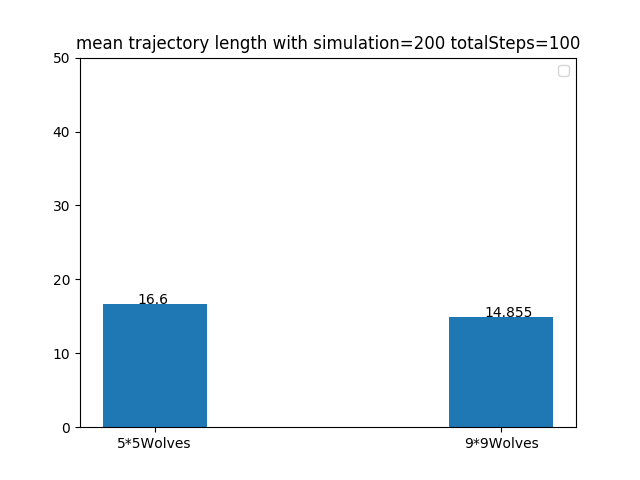
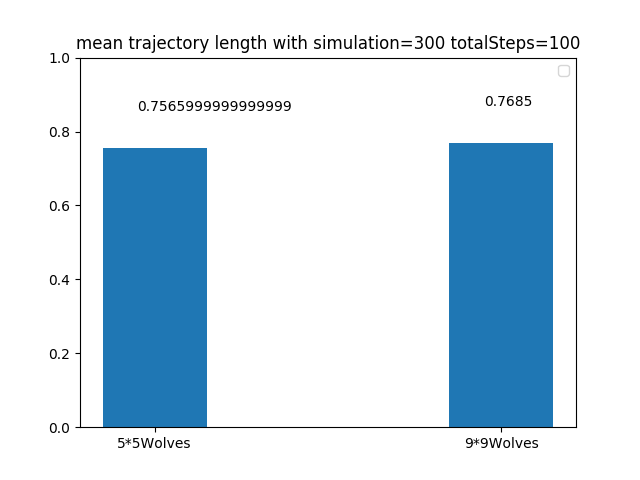
add eva traj

diff --git a/exec/generateGuidedMCTSWe/OneLevelPolicy/evaGuidedMCTSWeWithRollout.py b/exec/generateGuidedMCTSWe/OneLevelPolicy/evaGuidedMCTSWeWithRollout.py
@@ -13,15 +13,20 @@ from matplotlib import pyplot as plt
 
 from src.trajectoriesSaveLoad import GetSavePath, readParametersFromDf, LoadTrajectories, SaveAllTrajectories, \
     GenerateAllSampleIndexSavePaths, saveToPickle, loadFromPickle
+from src.MDPChasing.state import GetAgentPosFromState, GetStateForPolicyGivenIntention
+from src.MDPChasing.envNoPhysics import Reset, StayInBoundaryByReflectVelocity, TransitForNoPhysics, IsTerminal, InterpolateState
+from src.preProcessing import AccumulateRewards, AddValuesToTrajectory, RemoveTerminalTupleFromTrajectory, ActionToOneHot, ProcessTrajectoryForPolicyValueNet, PreProcessTrajectories
+from src.MDPChasing.reward import RewardFunctionCompete
 
-# save evaluation trajectories
 if __name__ == '__main__':
     dirName = os.path.dirname(__file__)
     trajectoriesSaveDirectory = os.path.join(dirName, '..', '..', '..', 'data', 'generateGuidedMCTSWeWithRollout', 'OneLeveLPolicy', 'trajectories')
     trajectorySaveExtension = '.pickle'
 
-    statList = []
-    NNNumSimulations = 200  # 300 with distance Herustic; 200 without distanceHerustic
+    trajLenList = []
+    accumulateRewardList = []
+
+    NNNumSimulations = 300  # 300 with distance Herustic; 200 without distanceHerustic
     for numOneWolfActionSpace in [5, 9]:
         numWolves = 2
         maxRunningSteps = 100
@@ -37,42 +42,53 @@ if __name__ == '__main__':
         loadTrajectories = LoadTrajectories(generateTrajectorySavePath, loadFromPickle, fuzzySearchParameterNames)
         loadedTrajectories = loadTrajectories({'agentId': 1})
 
+# traj length
         trajLen = np.mean([len(traj) for traj in loadedTrajectories])
-
         print(len(loadedTrajectories), trajLen)
-        statList.append(trajLen)
+        trajLenList.append(trajLen)
 
-        # sheepId = 0
-        # wolf1Id = 1
 
-        # xPosIndex = [0, 1]
-        # getSheepPos = GetAgentPosFromState(sheepId, xPosIndex)
-        # getWolf1Pos = GetAgentPosFromState(wolf1Id, xPosIndex)
+# accumulate reward
+        xBoundary = [0, 600]
+        yBoundary = [0, 600]
+        numSheep = 2
+        numWolves = 2
+        numOfAgent = numWolves + numSheep
+        reset = Reset(xBoundary, yBoundary, numOfAgent)
 
-        # playAliveBonus = 1/dataSetMaxRunningSteps
-        # playDeathPenalty = -1
-        # playKillzoneRadius = killzoneRadius #2
+        possiblePreyIds = list(range(numSheep))
+        possiblePredatorIds = list(range(numSheep, numSheep + numWolves))
+        posIndexInState = [0, 1]
+        getPreyPos = GetAgentPosFromState(possiblePreyIds, posIndexInState)
+        getPredatorPos = GetAgentPosFromState(possiblePredatorIds, posIndexInState)
+        killzoneRadius = 50
+        isTerminalInPlay = IsTerminal(killzoneRadius, getPreyPos, getPredatorPos)
 
-        # playIsTerminal = IsTerminal(playKillzoneRadius, getSheepPos, getWolf1Pos)
+        playAliveBonus = -1 / maxRunningSteps
+        playDeathPenalty = 1
+        playReward = RewardFunctionCompete(playAliveBonus, playDeathPenalty, isTerminalInPlay)
 
-        # playReward = RewardFunctionCompete(playAliveBonus, playDeathPenalty, playIsTerminal)
+        decay = 1
+        accumulateRewards = AccumulateRewards(decay, playReward)
+        addValuesToTrajectory = AddValuesToTrajectory(accumulateRewards)
 
-        # decay = 1
-        # accumulateRewards = AccumulateRewards(decay, playReward)
-        # addValuesToTrajectory = AddValuesToTrajectory(accumulateRewards)
+        def filterState(timeStep): return (timeStep[0][0:numOfAgent], timeStep[1], timeStep[2])
+        trajectories = [[filterState(timeStep) for timeStep in trajectory] for trajectory in loadedTrajectories]
 
-        # valuedTrajectories = [addValuesToTrajectory(tra) for tra in trajectories]
-        # dataMeanAccumulatedReward = np.mean([tra[0][3] for tra in valuedTrajectories])
-        # print(dataMeanAccumulatedReward)
+        valuedTrajectories = [addValuesToTrajectory(tra) for tra in trajectories]
+        dataMeanAccumulatedReward = np.mean([tra[0][3] for tra in valuedTrajectories])
+        print(dataMeanAccumulatedReward)
+        accumulateRewardList.append(dataMeanAccumulatedReward)
 
+# plot
     fig = plt.figure()
     axForDraw = fig.add_subplot(1, 1, 1)
-    axForDraw.set_ylim(0, 50)
+    axForDraw.set_ylim(0, 1)
 
     xlabel = ['5*5Wolves', '9*9Wolves', ]
 
     x = np.arange(2)
-    a = statList
+    a = accumulateRewardList
 
     totalWidth, n = 0.6, 2
     width = totalWidth / n
